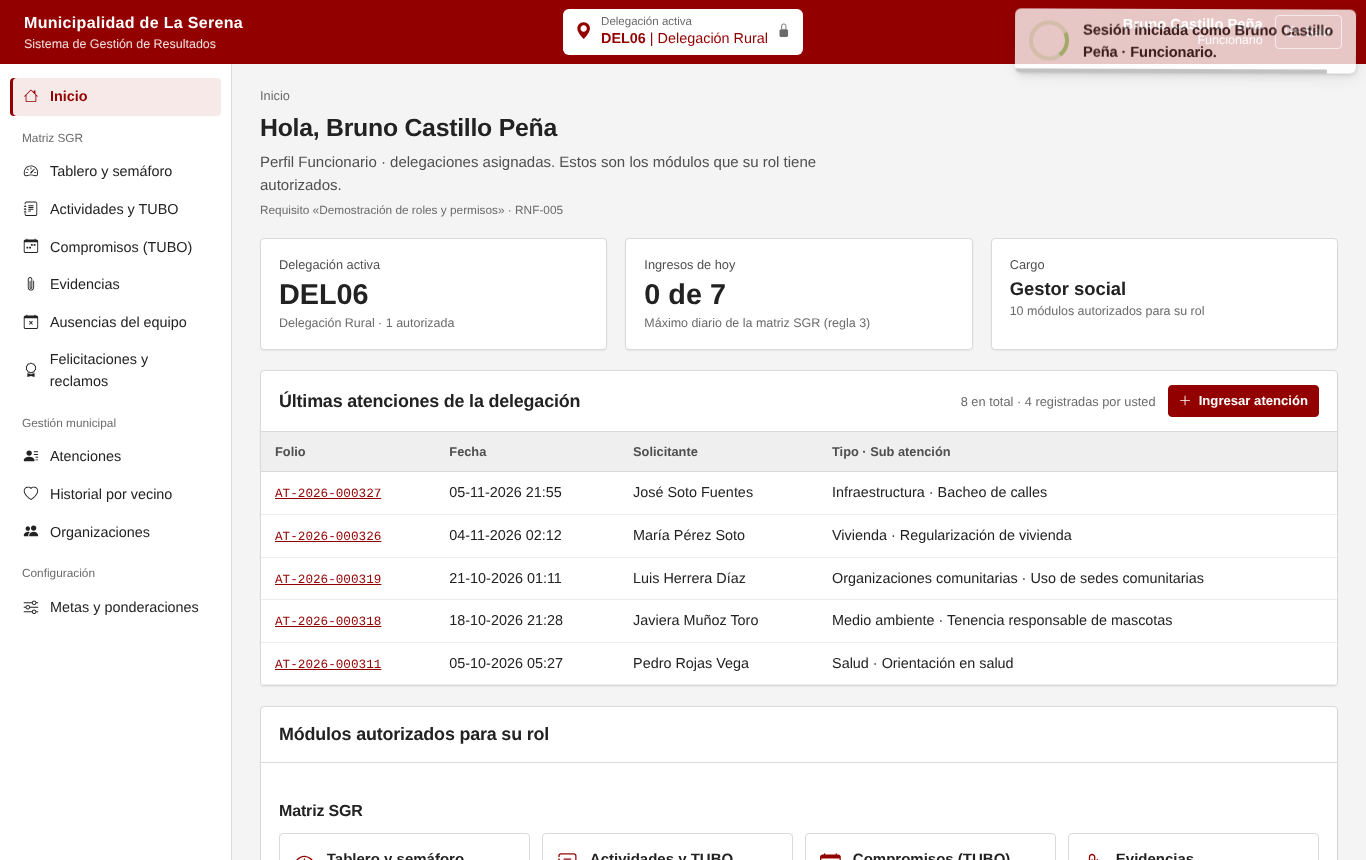
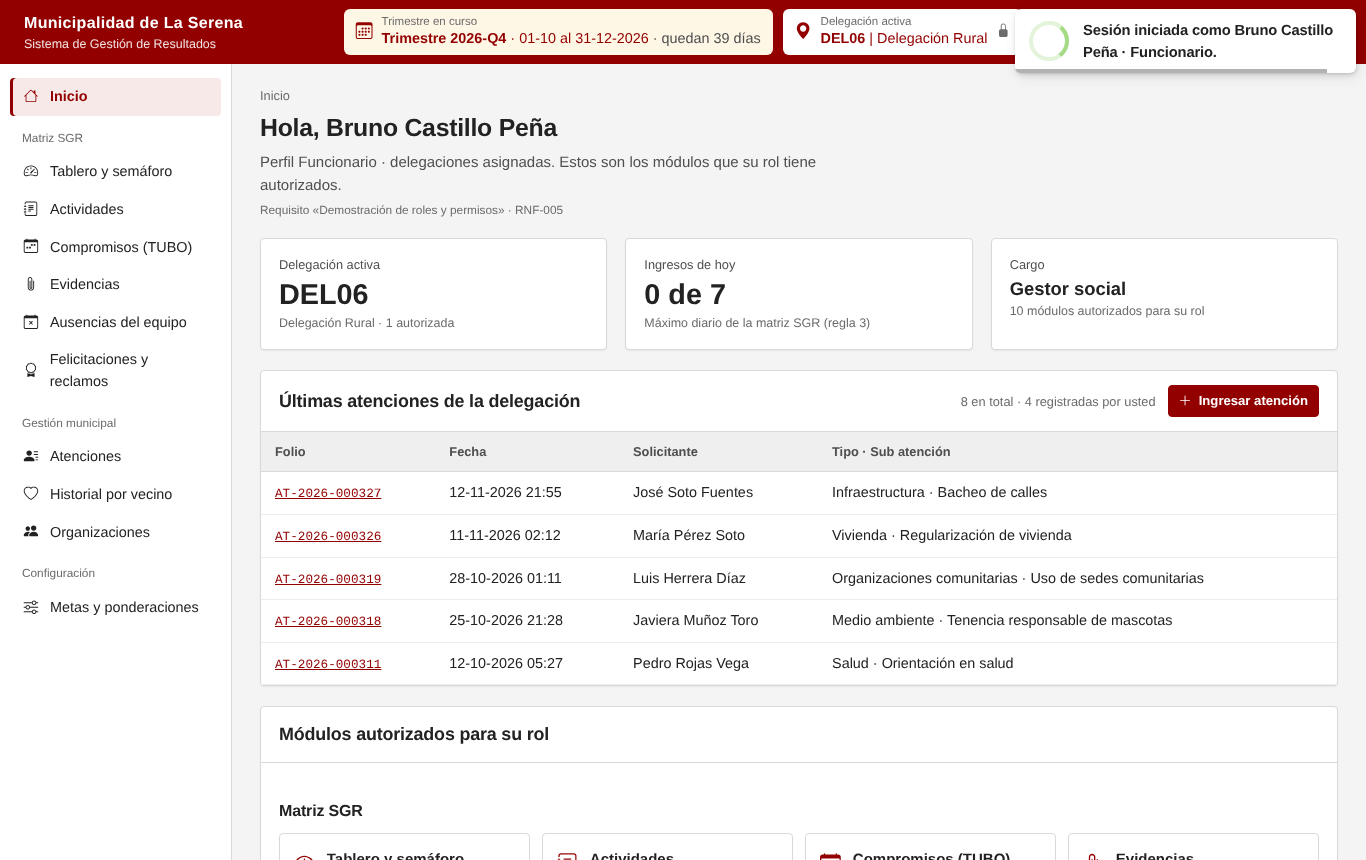
Pruebas de interfaz: UI-07 usa «Guardar atención» y UI-21 cubre «Guardar y enviar a compromiso»
El formulario de atención ahora tiene dos botones de envío, y UI-07 fallaba porque buscaba uno solo.
UI-21 comprueba en el navegador que, aun con doble clic, el botón nuevo lleva al envío y crea un
solo compromiso. Evidencias de interfaz regeneradas con la cabecera del trimestre. 21/21 en verde.

Claude-Session: https://claude.ai/code/session_01KxrgFR8WSe1WVkyFJaqdrG

Changed region(s): [[0.246, 0.0, 1.0, 0.0907], [0.4919, 0.9977, 0.5534, 1.0], [0.3382, 0.6047, 0.3997, 0.6349]]

diff --git a/pruebas_ui/test_interfaz.py b/pruebas_ui/test_interfaz.py
@@ -196,7 +196,8 @@ class InterfazTests(StaticLiveServerTestCase):
         self.p.select_option('#id_subatencion', str(sub.pk))
         self.p.fill('#id_descripcion', 'Consulta registrada desde la prueba de interfaz.')
         antes = Atencion.objects.count()
-        boton = self.p.locator('main button[type=submit]')
+        # El formulario tiene dos botones de envío: «Guardar atención» y «Guardar y enviar a compromiso»
+        boton = self.p.get_by_role('button', name='Guardar atención', exact=True)
         boton.dblclick()
         self.p.wait_for_url('**/atenciones/*/?nueva=1')
         dlg = self.dialogo()
@@ -408,3 +409,31 @@ class InterfazTests(StaticLiveServerTestCase):
         anchos = self.p.eval_on_selector_all('[data-ancho]', 'els => els.map(e => e.style.width)')
         self.assertTrue(anchos and all(a.endswith('%') for a in anchos), anchos)
         self.evidencia('UI-20-periodo-detalle')
+
+    def test_ui21_guardar_y_enviar_a_compromiso(self):
+        """UI-21 · «Guardar y enviar a compromiso» (aun con doble clic) lleva al envío y crea un solo compromiso"""
+        from gestion.models import Actividad
+        self.entrar('bcastillo')
+        self.ir('/atenciones/nueva/')
+        tipo = TipoAtencion.objects.get(codigo='TA001')
+        sub = tipo.subatenciones.filter(activo=True).first()
+        self.p.fill('#id_rut', '11.111.111-1')
+        self.p.fill('#id_nombre', 'Vecina de Prueba')
+        self.p.select_option('#id_tipo', str(tipo.pk))
+        self.esperar('() => document.querySelector("#id_subatencion").options.length > 1')
+        self.p.select_option('#id_subatencion', str(sub.pk))
+        self.p.fill('#id_descripcion', 'Solicitud que queda en seguimiento en el TUBO.')
+        antes = Atencion.objects.count()
+        self.p.get_by_role('button', name='Guardar y enviar a compromiso').dblclick()
+        # El valor del botón presionado llega al servidor pese al bloqueo de doble envío
+        self.p.wait_for_url('**/atenciones/*/?nueva=1#enviar-compromiso')
+        self.assertEqual(Atencion.objects.count(), antes + 1)
+        atencion = Atencion.objects.latest('pk')
+        self.dialogo()
+        self.p.evaluate('Swal.close()')
+        self.p.evaluate('() => { const f = document.querySelector("#enviar-compromiso [name=fecha_compromiso]");'
+                        ' f.value = f.min; }')
+        self.p.get_by_role('button', name='Enviar a compromiso', exact=True).dblclick()
+        self.p.wait_for_selector('.aviso-compromiso')
+        self.assertEqual(Actividad.objects.filter(atencion=atencion).count(), 1)
+        self.evidencia('UI-21-atencion-a-compromiso')
